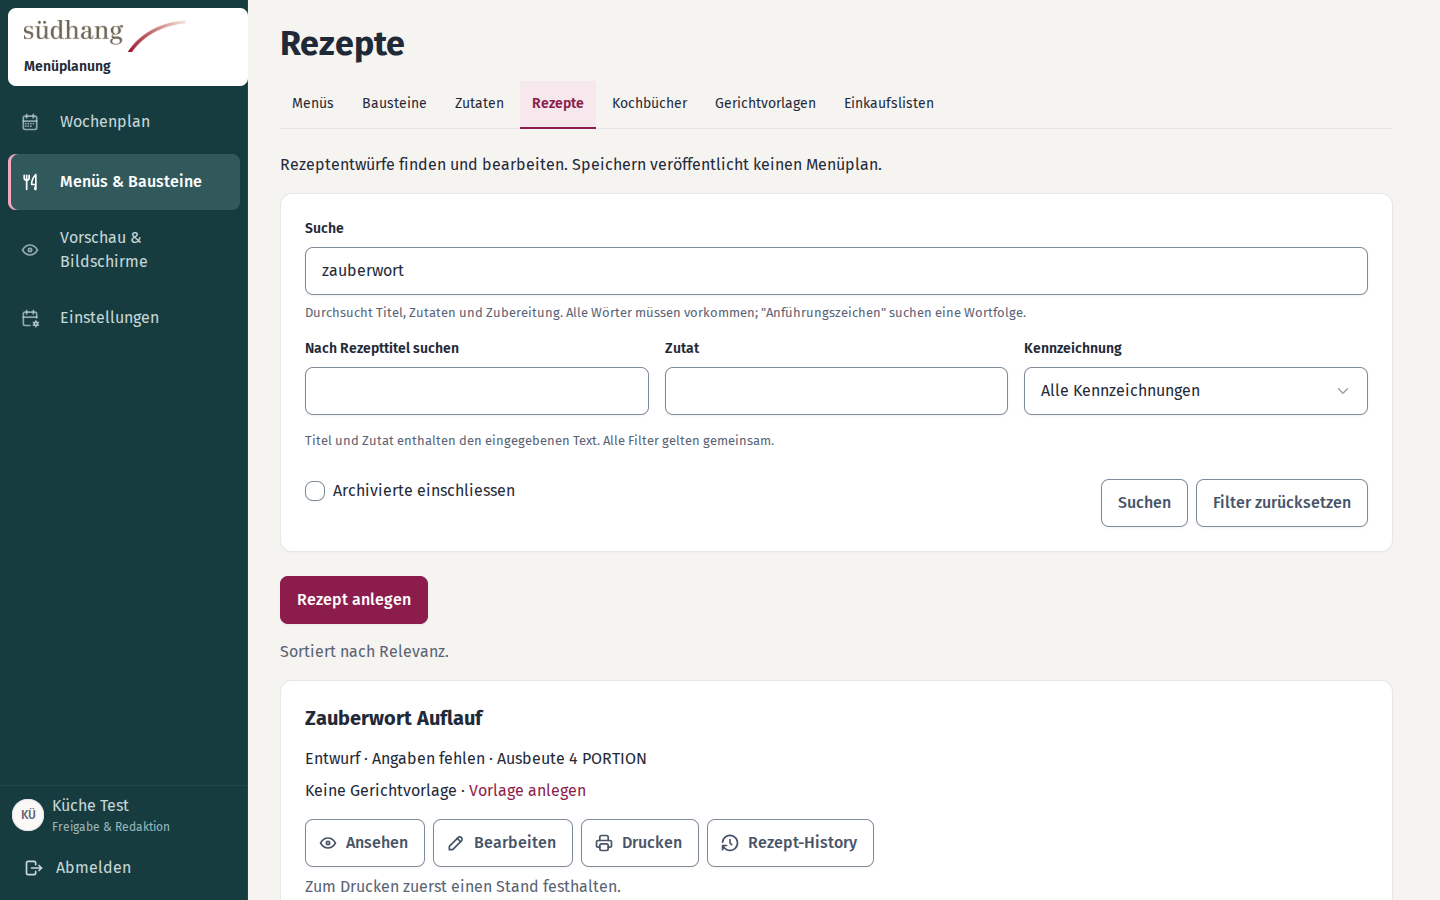
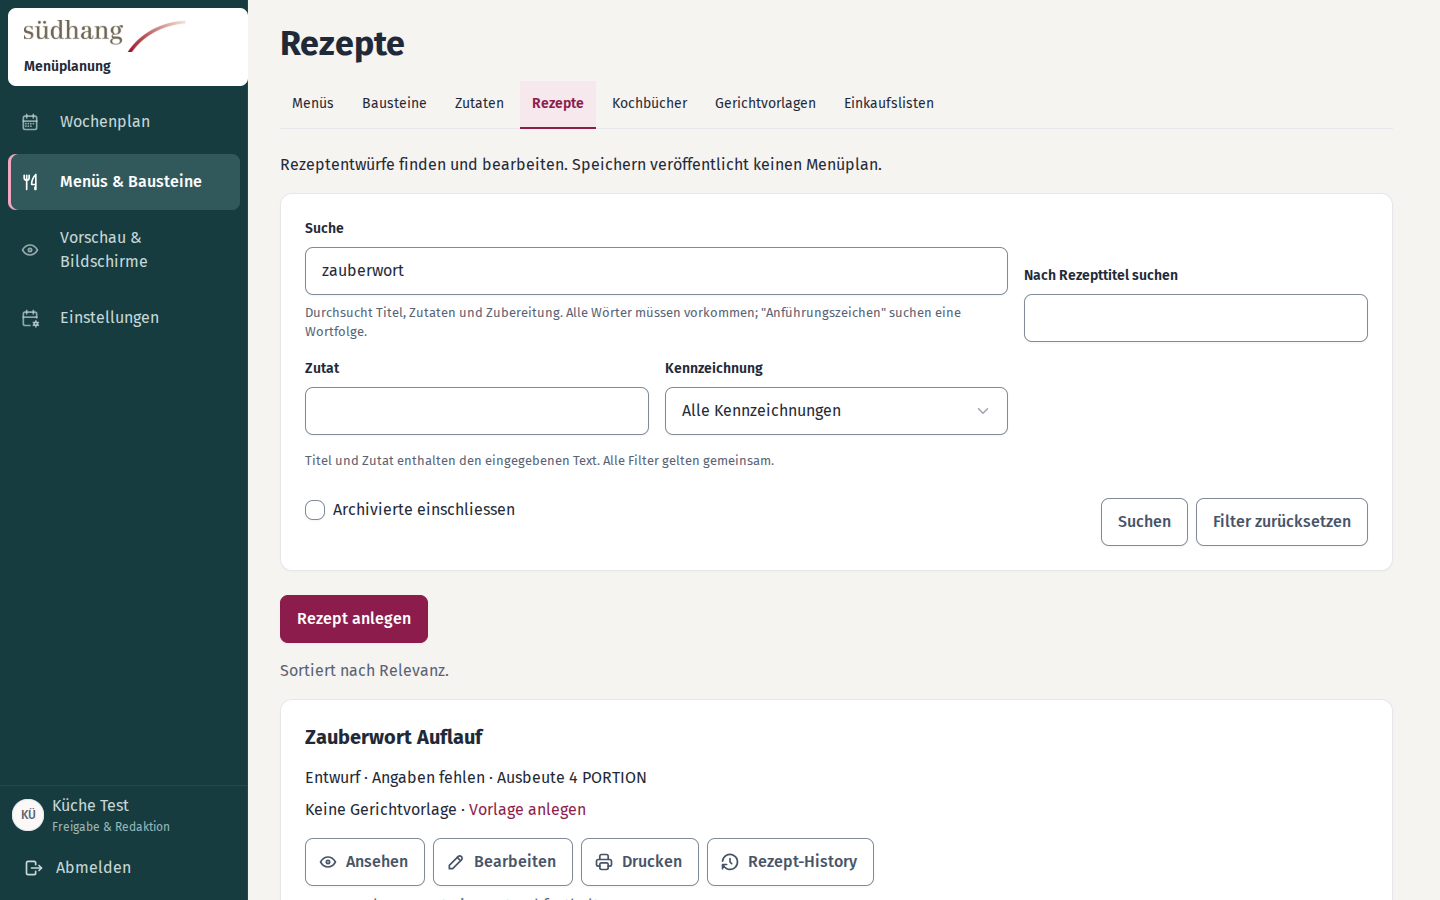
fix(recipes): address FTS search UI review findings
Link the search hint to the text field via aria-describedby, cap the
field width on large viewports per the design system, and add route
tests for control-character rejection and accessibility wiring.

diff --git a/reference_scaffold/cafeteria/templates/admin/rezepte.html b/reference_scaffold/cafeteria/templates/admin/rezepte.html
@@ -8,8 +8,8 @@
 {% block content %}
 <p>Rezeptentwürfe finden und bearbeiten. Speichern veröffentlicht keinen Menüplan.</p>
 <form class="card mb-4" method="get" action="{{ url_for('admin.recipes_list') }}"><div class="card-body">
-<div class="row g-3 align-items-end"><div class="col-12"><label class="form-label" for="text">Suche</label><input class="form-control" id="text" name="text" maxlength="200" value="{{ text }}">
-<p class="form-hint mb-0">Durchsucht Titel, Zutaten und Zubereitung. Alle Wörter müssen vorkommen; "Anführungszeichen" suchen eine Wortfolge.</p></div>
+<div class="row g-3 align-items-end"><div class="col-12 col-lg-8"><label class="form-label" for="text">Suche</label><input class="form-control" id="text" name="text" maxlength="200" value="{{ text }}" aria-describedby="text-hint">
+<p class="form-hint mb-0" id="text-hint">Durchsucht Titel, Zutaten und Zubereitung. Alle Wörter müssen vorkommen; "Anführungszeichen" suchen eine Wortfolge.</p></div>
 <div class="col-12 col-md-4"><label class="form-label" for="q">Nach Rezepttitel suchen</label><input class="form-control" id="q" name="q" maxlength="200" value="{{ query }}"></div>
 <div class="col-12 col-md-4"><label class="form-label" for="ingredient">Zutat</label><input class="form-control" id="ingredient" name="ingredient" maxlength="200" value="{{ ingredient }}"></div>
 <div class="col-12 col-md-4"><label class="form-label" for="tag">Kennzeichnung</label><select class="form-select" id="tag" name="tag"><option value="">Alle Kennzeichnungen</option>{% for value, label in tags %}<option value="{{ value }}"{% if value == tag %} selected{% endif %}>{{ label }}</option>{% endfor %}</select></div>

diff --git a/reference_scaffold/tests/test_recipe_search_routes.py b/reference_scaffold/tests/test_recipe_search_routes.py
@@ -95,6 +95,29 @@ def test_overlong_text_query_400_without_database_write(b3):  # noqa: F811
     assert complete_snapshot(owner) == before
 
 
+def test_control_character_text_query_400_without_database_write(b3):  # noqa: F811
+    _, owner, client, _ = b3
+    before = complete_snapshot(owner)
+    response = client.get('/admin/rezepte', query_string={'text': 'suppe\x00'})
+    assert response.status_code == 400 and response.headers['Cache-Control'] == 'no-store'
+    assert complete_snapshot(owner) == before
+
+
+def test_text_search_field_links_hint_with_aria_describedby(b3, search_lab):  # noqa: F811
+    response = b3[2].get('/admin/rezepte')
+    assert response.status_code == 200
+    html = response.text
+    assert re.search(
+        r'<input[^>]*\bid="text"[^>]*\baria-describedby="text-hint"[^>]*>',
+        html,
+    ) or re.search(
+        r'<input[^>]*\baria-describedby="text-hint"[^>]*\bid="text"[^>]*>',
+        html,
+    )
+    assert 'id="text-hint"' in html
+    assert 'Durchsucht Titel, Zutaten und Zubereitung' in html
+
+
 def test_list_without_text_unchanged(b3, search_lab):  # noqa: F811
     lab = search_lab
     lab['recipe']('Alpha Suppe')
